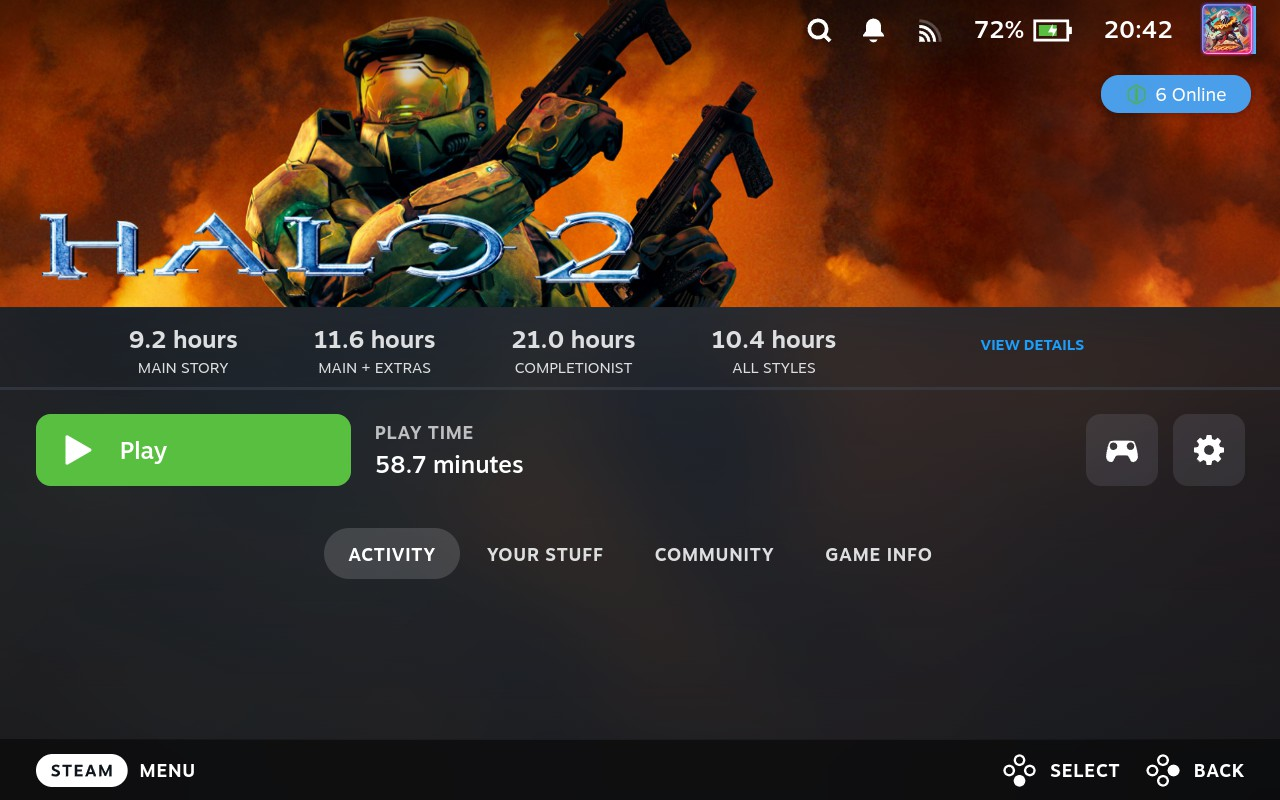
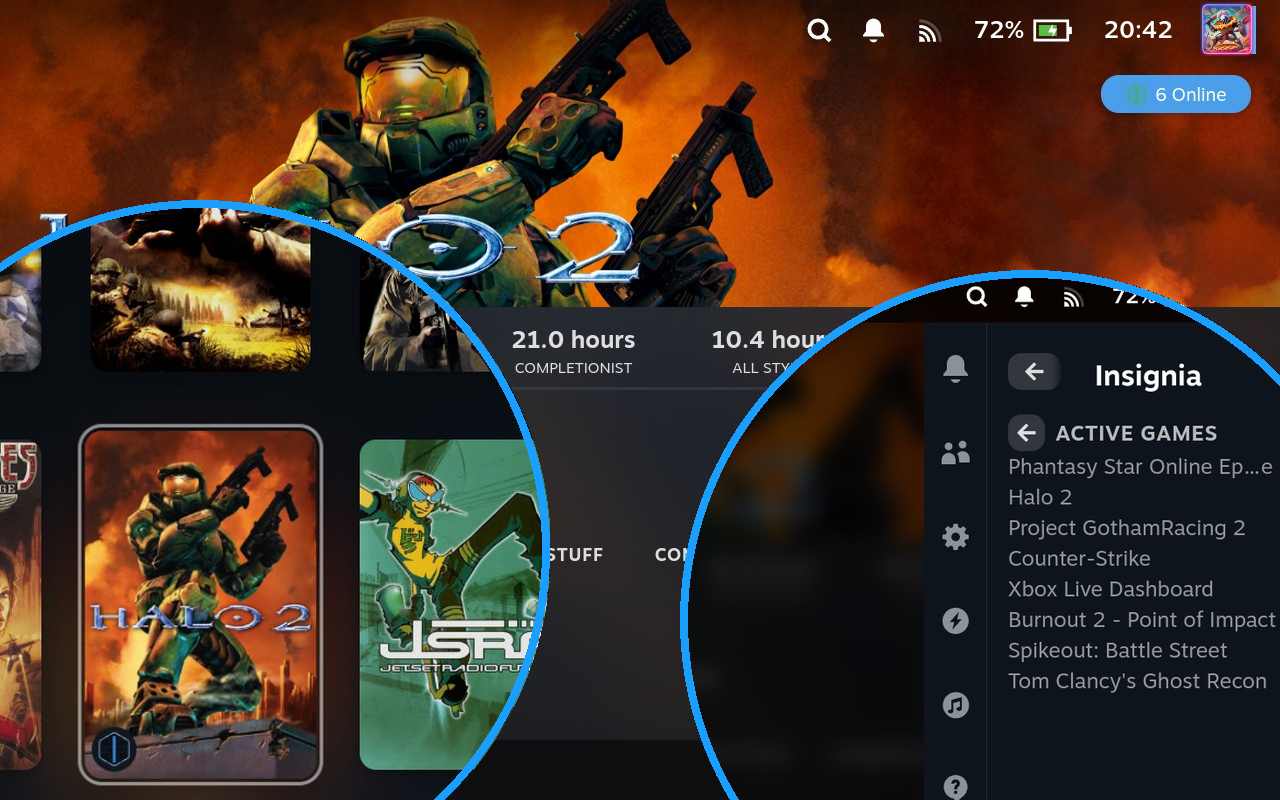
Rework store image guide: named screenshots, working composite recipe
Renames the four source screenshots to describe what they show
(library-page-badge, home-tile-badge, qam-active-games, qam-events)
instead of raw Steam filenames, documents the actual Pillow script
used to build the circular-inset composite, and updates
publish-image.png to that composite.

diff --git a/docs/generate-publish-image.md b/docs/generate-publish-image.md
@@ -29,12 +29,92 @@ ssh -i ~/.ssh/id_rsa deck@<deckip> \
 scp -i ~/.ssh/id_rsa deck@<deckip>:"<path-from-above>" images/
 ```
 
-## Combining / converting
+## Building the composite
 
-```bash
-magick shot1.jpg shot2.jpg +append combined.png   # side-by-side
-convert shot.jpg shot.png                          # plain format conversion
+Layout: a hero screenshot (`library-page-badge.jpg`) fills the whole canvas: two large circular
+insets sit at the bottom, bleeding off the left/right/bottom edges, each showing a crop of
+another screenshot with a colored ring border. Left inset = `home-tile-badge.jpg` (home-grid
+tile + Insignia badge); right inset = `qam-active-games.jpg` (QAM sidebar). `qam-events.jpg`
+isn't used in the current composite but is available in `images/` as a fourth option if you
+want to swap one of the insets for it.
+
+Requires Pillow (`python3 -c "import PIL"` — already available in this repo's environment).
+
+```python
+from PIL import Image, ImageDraw
+
+W, H = 1280, 800
+hero = Image.open("images/library-page-badge.jpg").convert("RGB").resize((W, H), Image.LANCZOS)
+
+def circular_inset(src_path, box, diameter, ring_color=(26,159,255), ring_width=8):
+    src = Image.open(src_path).convert("RGB")
+    crop = src.crop(box)
+    w, h = crop.size
+    side = min(w, h)
+    left = (w - side) // 2
+    top = (h - side) // 2
+    crop = crop.crop((left, top, left + side, top + side)).resize((diameter, diameter), Image.LANCZOS)
+
+    mask = Image.new("L", (diameter, diameter), 0)
+    ImageDraw.Draw(mask).ellipse((0, 0, diameter, diameter), fill=255)
+
+    ring_layer = Image.new("RGBA", (diameter, diameter), (0,0,0,0))
+    ImageDraw.Draw(ring_layer).ellipse((0,0,diameter-1,diameter-1), outline=ring_color, width=ring_width)
+
+    return crop, mask, ring_layer
+
+canvas = hero.convert("RGBA")
+
+DIAM = 700
+left_center  = (200, 550)   # (canvas x, canvas y) of each circle's center
+right_center = (1030, 620)
+
+left_box  = (74, 160, 714, 800)   # (left, top, right, bottom) crop taken from the source image
+right_box = (480, 0, 1280, 800)   # gets center-cropped to square, then resized to DIAM
+
+for center, box, src_key in [
+    (left_center, left_box, "images/home-tile-badge.jpg"),
+    (right_center, right_box, "images/qam-active-games.jpg"),
+]:
+    crop, mask, ring = circular_inset(src_key, box, DIAM)
+    top_left = (center[0] - DIAM // 2, center[1] - DIAM // 2)
+    canvas.paste(crop, top_left, mask)
+    canvas.alpha_composite(ring, top_left)
+
+canvas.convert("RGB").save("publish-image.png", "PNG")
 ```
+
+### Tuning it for new screenshots
+
+The four knobs are `DIAM` (circle size), `left_center`/`right_center` (where the circles sit on
+the 1280×800 canvas), and `left_box`/`right_box` (which region of the source screenshot each
+circle shows — always cropped to a square first). Everything is trial and error: change a
+number, re-run, re-view the PNG, adjust. Things learned doing this the first time:
+
+- **A screenshot is only 800px tall**, so any `box` is capped at 800×800 — you can't "zoom out"
+  a circle's content past that no matter how big `DIAM` is. Hitting this cap means widening the
+  circle further just re-shows the same crop bigger, it doesn't reveal more surrounding content.
+- **Circle bottom can silently exceed the canvas.** `paste()` clips whatever falls outside the
+  1280×800 canvas with no warning, so a badge/element positioned too low in a `box` (relative to
+  the resulting circle size/position) just vanishes off the bottom — check by cropping the saved
+  PNG near where it should be (`im.crop((x0,y0,x1,y1))`) rather than trusting the full-image
+  preview alone.
+- **Three things fight each other on the left circle**: keeping the hero image's own logo/text
+  uncovered (wants the circle's top edge low, i.e. large `center[1]`), keeping a low-down badge
+  in frame (wants the top edge high, i.e. small `center[1]`), and zooming out for more
+  surrounding context (enlarges `box`, which pushes low-down content even further past the
+  canvas bottom at a fixed circle position). There's no single setting that maximizes all three
+  — pick two and compromise on the third for the current screenshot's composition.
+- **Panning `box` can't fix content that's clipped by the canvas edge.** If content is falling
+  outside the 1280×800 canvas, moving `box` around inside the source image doesn't help — the
+  clip happens at the canvas boundary, not the source boundary. The only fixes are moving that
+  circle's `center`, changing `DIAM`, or accepting the crop.
+- **A circle only fully reaches the canvas edge across its whole height if the center is pushed
+  far enough past that edge** (near the corner, not just past the flat edge) — otherwise there's
+  a visible background gap near the top/bottom of the circle even though it "bleeds off" at its
+  vertical center. Moving a circle sideways to fix this shifts its content sideways too; there's
+  only room to compensate by re-panning `box` if the crop isn't already anchored at the source
+  image's own edge (once `box` hits `0` or the source's width/height, there's no slack left).
 
 ## Wiring it into `plugin.json`
 
